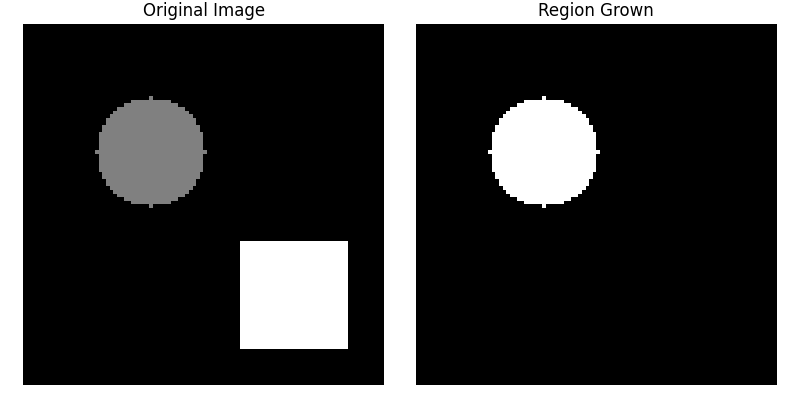
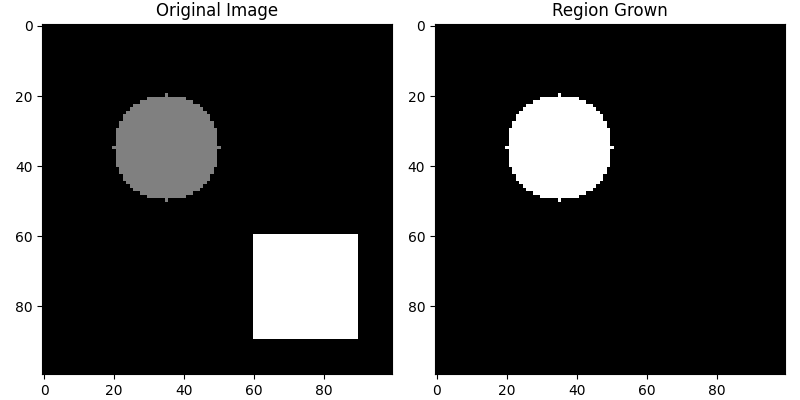
updated the code

diff --git a/Q2.py b/Q2.py
@@ -54,12 +54,10 @@ plt.figure(figsize=(8, 4))
 plt.subplot(1, 2, 1)
 plt.title("Original Image")
 plt.imshow(original_img, cmap='gray')
-plt.axis('off')
 
 plt.subplot(1, 2, 2)
 plt.title("Region Grown")
 plt.imshow(region_result, cmap='gray')
-plt.axis('off')
 
 plt.tight_layout()
 plt.savefig('images/region_growing_results.png')
